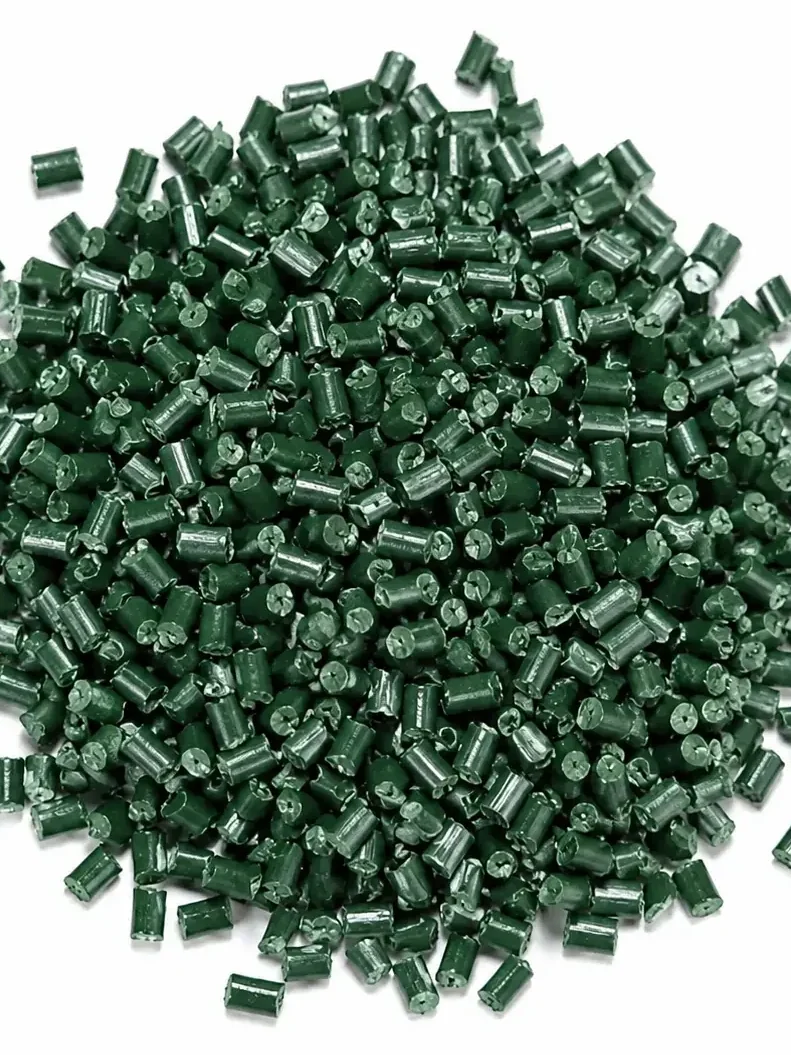
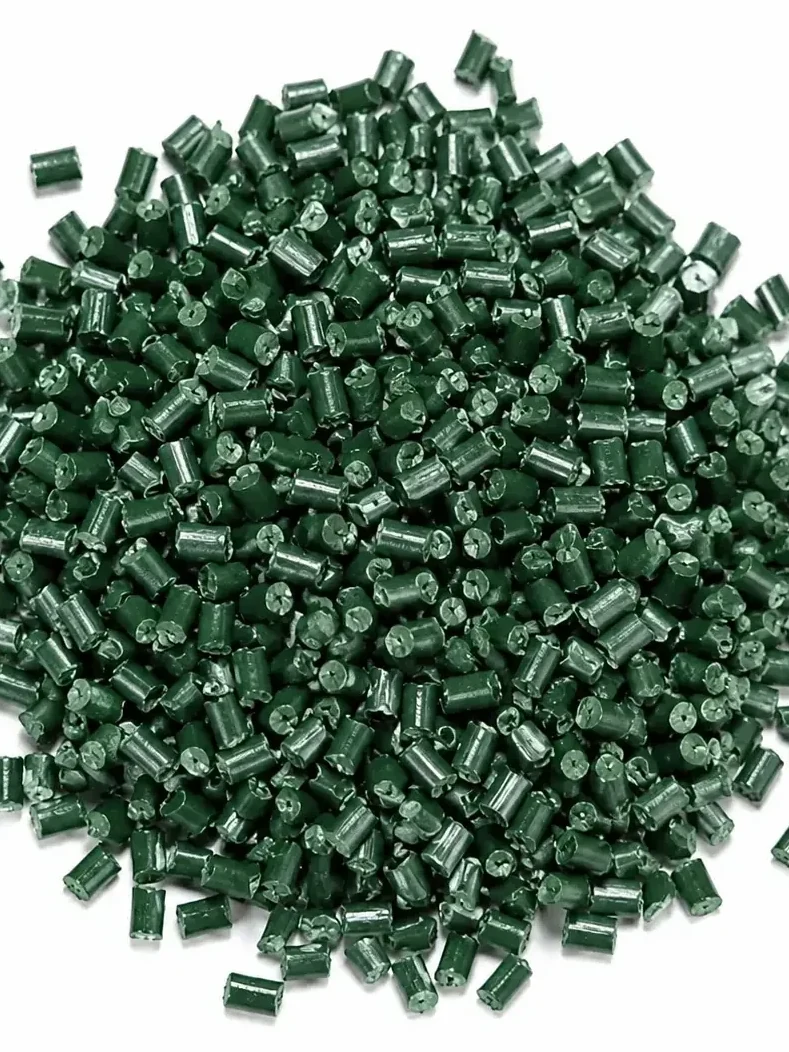
Biji: crop ke 3:4 PERSIS (789x1052) agar pas container tanpa terpangkas
- biji1.webp 791x1055 (0.7498) -> 789x1052 (0.7500 tepat), ~182KB webp
- Update dim attr di index.html & produk.html + CLAUDE.md
- tali.webp sudah 3:4 persis (1086x1448) — tidak diubah

diff --git a/index.html b/index.html
@@ -139,7 +139,7 @@
           </a>
           <a class="card pcard" href="/produk.html#biji">
             <div class="pcard__media">
-              <img class="pcard__img" src="/assets/product/biji1.webp" alt="Biji plastik PP (pellet) warna hijau" width="791" height="1055" loading="lazy" />
+              <img class="pcard__img" src="/assets/product/biji1.webp" alt="Biji plastik PP (pellet) warna hijau" width="789" height="1052" loading="lazy" />
             </div>
             <span class="pcard__tag">Bahan baku</span>
             <h3>Biji Plastik PP</h3>

diff --git a/produk.html b/produk.html
@@ -100,7 +100,7 @@
         <!-- Biji -->
         <article class="prod prod--reverse" id="biji">
           <div class="prod__media">
-            <img class="prod__img" src="/assets/product/biji1.webp" alt="Biji plastik PP (pellet) warna hijau siap untuk ekstrusi dan injeksi" width="791" height="1055" loading="lazy" />
+            <img class="prod__img" src="/assets/product/biji1.webp" alt="Biji plastik PP (pellet) warna hijau siap untuk ekstrusi dan injeksi" width="789" height="1052" loading="lazy" />
             <figure class="prod__proof">
               <img src="/assets/product/biji.webp" alt="Biji plastik PP hasil produksi langsung di Balaraja, Kabupaten Tangerang" width="1600" height="1600" loading="lazy" />
               <figcaption>Produksi langsung di<br />Balaraja, Kab. Tangerang</figcaption>

diff --git a/CLAUDE.md b/CLAUDE.md
@@ -120,7 +120,8 @@ Kalau data bisnis/koordinat berubah, perbarui JSON-LD **dan** geo meta tags.
     penuh tanpa area kosong. Kedua kartu **identik tinggi** (rasio & lebar sama). Sudut
     atas membulat ikut radius kartu (via `overflow:hidden` di `.pcard`). Mobile (≤560,
     1 kolom): `aspect-ratio: 4/3` biar tidak kepanjangan. **File `tali.webp` (1086×1448)
-    & `biji1.webp` (791×1055) keduanya sudah rasio 3:4** — jadi `cover` = tampil utuh.
+    & `biji1.webp` (789×1052) keduanya rasio 3:4 PERSIS** — jadi `cover` = tampil utuh
+    (di desktop tak ada yang terpangkas).
   - **Halaman detail produk (`.prod__img` di produk.html)**: tetap `object-fit: contain`
     + matting lembut (gradasi putih) → produk tampil UTUH tak terpotong untuk tampilan
     detail. Pakai file foto yang sama.